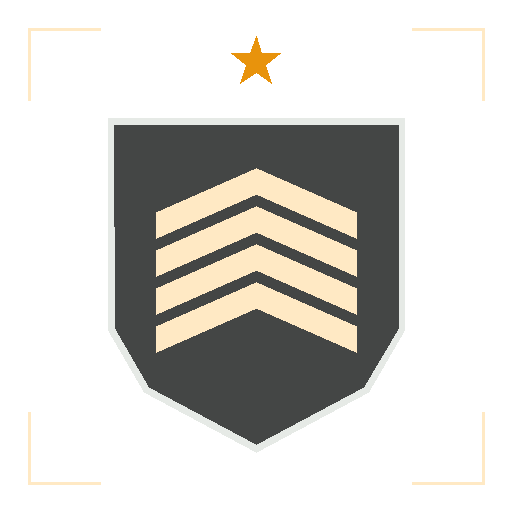
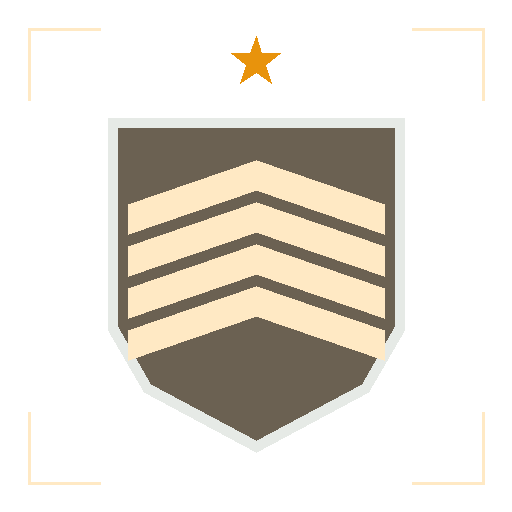
feat(launcher): medallas regeneradas con metal solido e interior tintado por tier + render 52px + nombre del tier en color del metal

Changed region(s): [[0.2188, 0.2188, 0.7812, 0.875]]

diff --git a/apps/launcher/assets/make_medals.py b/apps/launcher/assets/make_medals.py
@@ -20,10 +20,13 @@ Sistema de 8 tiers (ELO 1000-2500), estilo Dota 2 pero militar MW2:
 
 Estética HUD MW2 (ui/theme.py), igual que make_logo.py:
   - cero gradientes, cero glow, esquinas rectas, contraste AA
-  - metal del tier como color principal, contorno gris claro #E6EAE6,
-    interior oscuro #101312 semiopaco (alpha 200) para legibilidad
+  - metal del tier como color principal, contorno gris claro #E6EAE6
+  - interior = METAL OSCURECIDO del tier, OPACO (fix del dueño: el viejo
+    interior #101312 semiopaco era una mancha ilegible a ~50px; el nuevo
+    lleva el tint del metal y hace POP el emblema sobre fondo carbón)
   - brackets de esquina en tono del metal para unificar con el logo
-  - SIN texto dentro del emblema (el nombre lo pone la UI)
+  - SIN texto dentro del emblema (el nombre lo pone la UI, en el color
+    del metal del tier — ver ui/theme.py MEDAL_TIER_COLORS)
 """
 from __future__ import annotations
 
@@ -38,7 +41,27 @@ BG = "#101312"          # fondo de ventana / carbón del sheet
 TEXT = "#E6EAE6"        # texto principal (off-white) → contorno del escudo
 DIM = "#9BA69E"         # texto secundario → labels del sheet
 ACCENT = "#E8930C"      # ámbar militar → estrella del tier LEYENDA
-INTERIOR = (16, 19, 18, 200)  # #101312 semiopaco (alpha ~200)
+# Interior del escudo VIEJO (#101312 semiopaco): referencia del fix — el
+# nuevo interior es METAL OSCURECIDO opaco (ver interior_for()).
+OLD_INTERIOR = (16, 19, 18)
+INTERIOR_FLOOR = (33, 37, 35)  # suelo: ~35% más claro que el viejo #101312
+INTERIOR_METAL_MIX = 0.42      # metal al ~42% → interior tintado por tier
+
+
+def interior_for(metal_hex: str) -> tuple:
+    """Color del interior del escudo para un tier: METAL OSCURECIDO y OPACO.
+
+    Mezcla el metal del tier al ~42% y asegura un suelo ~35% más claro que
+    el viejo #101312 (que a ~50px de render era una mancha ilegible sobre
+    las tarjetas carbón). Opaco (alpha 255): sin transparencias que apaguen
+    el emblema. Los chevrones en METAL pleno contrastan sobre este fondo.
+    """
+    r, g, b = hex_rgba(metal_hex)[:3]
+    mixed = (int(r * INTERIOR_METAL_MIX), int(g * INTERIOR_METAL_MIX),
+             int(b * INTERIOR_METAL_MIX))
+    return (max(INTERIOR_FLOOR[0], mixed[0]),
+            max(INTERIOR_FLOOR[1], mixed[1]),
+            max(INTERIOR_FLOOR[2], mixed[2]), 255)
 
 FONT_CANDIDATES = [
     "consolab.ttf",                # Consolas bold (familia mono de la UI)
@@ -64,8 +87,10 @@ TIERS = [
 
 # Evolución por tier: nº de chevrons apilados y medio-ancho del chevron.
 CHEVRONS_BY_TIER = {1: 1, 2: 1, 3: 2, 4: 2, 5: 3, 6: 3, 7: 4, 8: 4}
-CHEVRON_HW = {1: 84, 2: 90, 3: 96, 4: 100}  # medio-ancho por nº de chevrons
-BAND = 26   # grosor vertical de la banda del chevron
+# Medio-ancho SUBIDO (fix del dueño: chevrones más anchos → más presencia
+# del metal a ~50px de render). Siguen dentro del escudo (x 128..384 ≤ 398).
+CHEVRON_HW = {1: 104, 2: 112, 3: 120, 4: 128}
+BAND = 30   # grosor vertical de la banda del chevron (subido de 26)
 RISE = 44   # altura del pico del chevron
 GAP = 12    # aire entre chevrons apilados
 
@@ -118,16 +143,19 @@ def draw_tracked_centered(draw: ImageDraw.ImageDraw, cx: int, y: int, s: str,
 # --- Geometría del emblema ----------------------------------------------------
 
 # Escudo militar de fondo plano: top recto, laterales que afinan y punta
-# inferior. Contorno gris claro (outer) + interior oscuro semiopaco (inner).
+# inferior. Contorno gris claro (outer) + interior metal oscurecido (inner).
+# Inner más separado del outer que antes: contorno blanco ~10px que sigue
+# visible tras el downsample a ~50px en la UI.
 SHIELD_OUTER = [
     (108, 118), (404, 118), (404, 330), (368, 392), (256, 452), (144, 392), (108, 330),
 ]
 SHIELD_INNER = [
-    (114, 125), (398, 125), (398, 328), (363, 387), (256, 444), (149, 387), (115, 328),
+    (118, 128), (394, 128), (394, 326), (361, 384), (256, 440), (151, 384), (118, 326),
 ]
 
-# Ancla vertical: la banda del chevron central SIEMPRE cubre el pixel central
-# (256, 256) → [244, 270], para que la verificación de color sea determinista.
+# Ancla vertical: la banda de ALGÚN chevron SIEMPRE cubre el pixel central
+# (256, 256) — con BAND=30: count 1 → [244,274], 2 → [246,276], 3 → [246,276],
+# 4 → [248,278] — para que la verificación de color sea determinista.
 CHEVRON_ANCHOR_Y = 244
 
 
@@ -165,10 +193,10 @@ def make_medal(num: int, slug: str, metal_hex: str) -> Path:
     metal = hex_rgba(metal_hex)
     outline = hex_rgba(TEXT)
 
-    # 1) Escudo: contorno gris claro + interior oscuro semiopaco (legibilidad
-    #    sobre cualquier fondo de tarjeta).
+    # 1) Escudo: contorno blanco ~10px + interior METAL OSCURECIDO opaco
+    #    (tintado por tier — el emblema hace POP sobre fondo carbón).
     d.polygon(SHIELD_OUTER, fill=outline)
-    d.polygon(SHIELD_INNER, fill=INTERIOR)
+    d.polygon(SHIELD_INNER, fill=interior_for(metal_hex))
 
     # 2) Chevrones del tier en el metal (color principal del emblema).
     n = CHEVRONS_BY_TIER[num]
@@ -280,11 +308,20 @@ def verify() -> None:
         center = rgba.getpixel((256, 256))
         want = expected[num]
         color_ok = center[:3] == want and center[3] == 255
-        ok = size_ok and corner_a == 0 and color_ok
+        # Interior metal oscurecido OPACO: muestra dentro del escudo y
+        # encima del chevron más alto de cualquier tier (256, 150).
+        interior_want = interior_for(metal_hex)
+        interior_px = rgba.getpixel((256, 150))
+        interior_ok = (interior_px[:3] == interior_want[:3]
+                       and interior_px[3] == 255)
+        ok = size_ok and corner_a == 0 and color_ok and interior_ok
         all_ok &= ok
         print(f"{p.name:<26}{f'{img.size[0]}x{img.size[1]} {img.mode}':<12}"
               f"{os.path.getsize(p):<9}{corner_a:<10}"
-              f"{str(center):<20}{str(want):<13}{'SI' if ok else 'NO'}")
+              f"{str(center):<20}{str(want):<13}"
+              f"{'SI' if ok else 'NO'} interior={interior_px}")
+        if not interior_ok:
+            print(f"    interior esperado {interior_want} — ¡NO cuadra!")
     sheet = OUT / "medals-sheet.png"
     simg = Image.open(sheet)
     print(f"{sheet.name:<26}{f'{simg.size[0]}x{simg.size[1]} {simg.mode}':<12}"

diff --git a/apps/launcher/ui/stats_panel.py b/apps/launcher/ui/stats_panel.py
@@ -24,7 +24,8 @@ from typing import Any, Dict, List, Optional, Tuple
 import customtkinter as ctk
 
 from ui.hud import bind_ghost_focus, hairline
-from ui.theme import COLORS, RADIUS, SP, asset_path, font
+from ui.theme import (COLORS, MEDAL_TIER_COLORS, RADIUS, SP, asset_path,
+                      font)
 
 log = logging.getLogger("ui.stats")
 
@@ -50,7 +51,7 @@ GRID_ORDER: Tuple[str, ...] = (
 GRID_TOP: Tuple[str, ...] = ("rank", "lvl", "kills", "deaths")
 GRID_BOTTOM: Tuple[str, ...] = ("hs", "kd", "medal")
 GRID_ROW_GAP = SP["m"]  # aire vertical entre filas en modo 2 filas
-MEDAL_IMG_H = 36  # alto OBJETIVO del medallón en px (subsample entero: sale ~37)
+MEDAL_IMG_H = 50  # alto OBJETIVO del medallón en px (subsample entero: sale ~51)
 
 
 def _fmt_int(value: Any) -> str:
@@ -235,9 +236,10 @@ class StatsPanel(ctk.CTkFrame):
             )
             self._blocks[key] = value
             self._captions[key] = cap
-        # 7ª clave MEDALLA: el valor es un MARCO (medallón PNG ~36px +
-        # nombre del tier en mono pequeño), no un label de texto — por eso
-        # _column_need la mide a mano y _reset_values la salta.
+        # 7ª clave MEDALLA: el valor es un MARCO (medallón PNG ~50px +
+        # nombre del tier en mono pequeño EN SU COLOR de metal), no un
+        # label de texto — por eso _column_need la mide a mano y
+        # _reset_values la salta.
         self._medal_name_font = font(10, mono=True)
         medal_value = ctk.CTkFrame(self._grid, fg_color="transparent")
         self._medal_img = ctk.CTkLabel(
@@ -411,12 +413,12 @@ class StatsPanel(ctk.CTkFrame):
 
     # ================== Medalla (bloque del grid + detalle) ==================
     def _get_medal_photo(self, asset_id: str) -> Optional[tk.PhotoImage]:
-        """PhotoImage del medallón a ~36px (PNG 512×512 subsampleado).
+        """PhotoImage del medallón a ~50px (PNG 512×512 subsampleado).
 
         Los assets son decorativos: si el archivo falta (exe viejo sin la
         carpeta medals, assetId desconocido) devuelve None y el bloque cae
         a '—' sin crash. Sin PIL en runtime: Tk 8.6 lee PNG nativo y
-        subsamplea por factor entero (factor 14 sobre 512 → ~37×37).
+        subsamplea por factor entero (factor 10 sobre 512 → ~51×51).
         """
         cached = self._medal_photos.get(asset_id)
         if cached is not None:
@@ -435,9 +437,11 @@ class StatsPanel(ctk.CTkFrame):
         return photo
 
     def _render_medal_block(self, medal: Optional[Dict[str, Any]]) -> None:
-        """Bloque del grid: imagen del medallón + nombre del tier al lado.
-        Sin nombre el label se retira (sin gap fantasma: lo que se renderiza
-        es exactamente lo que mide _column_need)."""
+        """Bloque del grid: imagen del medallón + nombre del tier al lado,
+        EN EL COLOR del metal del tier (MEDAL_TIER_COLORS, tokens de
+        make_medals.py) — la medalla se lee de un vistazo aunque sea
+        pequeña. Sin nombre el label se retira (sin gap fantasma: lo que
+        se renderiza es exactamente lo que mide _column_need)."""
         asset_id = str(medal.get("assetId") or "") if medal else ""
         name = str(medal.get("name") or "") if medal else ""
         photo = self._get_medal_photo(asset_id) if asset_id else None
@@ -447,7 +451,13 @@ class StatsPanel(ctk.CTkFrame):
         else:
             # image="" (no None): CTkLabel no baja la imagen interna con None.
             self._medal_img.configure(image="", text="—")
-        self._medal_name.configure(text=name)
+        # Nombre en el METAL del tier (defensivo: tier desconocido → dim).
+        try:
+            name_color = MEDAL_TIER_COLORS[int(medal.get("tierId"))] if medal \
+                else COLORS["text_dim"]
+        except (KeyError, TypeError, ValueError):
+            name_color = COLORS["text_dim"]
+        self._medal_name.configure(text=name, text_color=name_color)
         if name:
             self._medal_name.pack(side="left", padx=(SP["s"], 0))
         else:
@@ -539,7 +549,7 @@ class StatsPanel(ctk.CTkFrame):
         caption_text = str(self._captions[key].cget("text"))
         cap_w = self._caption_font.measure(caption_text)
         if key == "medal":
-            # Valor = medallón (~36px) + aire + nombre del tier en mono
+            # Valor = medallón (~50px) + aire + nombre del tier en mono
             # pequeño. La métrica de fuente queda corta (CTkLabel añade
             # padding interno escalado: 40px medidos → 64px render), así que
             # se usa el ancho PEDIDO del marco (winfo_reqwidth, exacto y

diff --git a/apps/launcher/tests/test_smoke.py b/apps/launcher/tests/test_smoke.py
@@ -91,7 +91,7 @@ import save_sync as ss  # noqa: E402
 from save_sync import decide_sync  # noqa: E402
 from ui.main_window import App  # noqa: E402
 from ui.stats_panel import GRID_ORDER, MEDAL_IMG_H  # noqa: E402
-from ui.theme import COLORS  # noqa: E402
+from ui.theme import COLORS, MEDAL_TIER_COLORS  # noqa: E402
 from user_store import UserStore  # noqa: E402
 
 # ---------------------------------------------------------------------------
@@ -748,10 +748,11 @@ def synthetic_medal_checks(panel) -> None:
     """Inyección sintética del bloque MEDALLA sobre el panel REAL (no depende
     del entorno ni de que el backend ya sirva el campo). El perfil llega con
     medal sintético y un assetId VÁLIDO (los PNG reales de assets/medals,
-    ruta resuelta por asset_path) → medallón cargado como PhotoImage ~36px
-    sin crash; tier 8 → 'LEYENDA #N · TOP 12' en ámbar; medal null/ausente
-    y assetId inválido → '—' (convención), todo sin crash. Los mismos checks
-    para la fase completa y la reducida."""
+    ruta resuelta por asset_path) → medallón cargado como PhotoImage ~50px
+    sin crash y nombre del tier EN SU METAL (MEDAL_TIER_COLORS); tier 8 →
+    'LEYENDA #N · TOP 12' en ámbar; medal null/ausente y assetId inválido →
+    '—' (convención), todo sin crash. Los mismos checks para la fase
+    completa y la reducida."""
     check("bloque MEDALLA en el grid: 7ª clave con caption 'MEDALLA' mapeada",
           "medal" in GRID_ORDER
           and str(panel._captions["medal"].cget("text")) == "MEDALLA"
@@ -772,10 +773,14 @@ def synthetic_medal_checks(panel) -> None:
     ancho = (panel._medal_photo.width()
              if panel._medal_photo is not None else 0)
     check("medal sintético (SARGENTO, assetId válido) → medallón cargado "
-          "(PhotoImage ~36px) + nombre al lado, sin crash",
+          "(PhotoImage ~50px) + nombre al lado, sin crash",
           img_set and MEDAL_IMG_H <= ancho <= MEDAL_IMG_H + 2
           and nombre == "SARGENTO",
           f"img={'sí' if img_set else 'no'} ancho={ancho} nombre={nombre!r}")
+    check("nombre del tier EN EL COLOR del metal (SARGENTO → ámbar #E8930C)",
+          panel._medal_name.cget("text_color") == MEDAL_TIER_COLORS[4],
+          f"color={panel._medal_name.cget('text_color')!r} "
+          f"esperado={MEDAL_TIER_COLORS[4]!r}")
     estrellas_ok = (
         str(panel._stars_full.cget("text")) == "★★★"
         and str(panel._stars_empty.cget("text")) == "☆☆ · TOP 12"

diff --git a/apps/launcher/ui/theme.py b/apps/launcher/ui/theme.py
@@ -51,6 +51,21 @@ COLORS = {
     "play_hover": "#F5A430",
 }
 
+# --- Metales por tier de medalla ELO ----------------------------------------
+# Valores EXACTOS de assets/make_medals.py · TIERS (única fuente del dibujo).
+# La UI pinta el nombre del tier en SU metal para que la medalla se lea de
+# un vistazo. Clave = tierId 1-8 del contrato player["medal"].
+MEDAL_TIER_COLORS = {
+    1: "#3B443E",  # RECLUTA    (gris acero dim — el tier base es intencionalmente apagado)
+    2: "#B0722F",  # SOLDADO    (bronce)
+    3: "#A9B2AC",  # CABO       (plata)
+    4: "#E8930C",  # SARGENTO   (ámbar militar = accent)
+    5: "#F5A430",  # TENIENTE   (ámbar claro = accent_hover)
+    6: "#8FD429",  # CAPITÁN    (verde señal = ok)
+    7: "#D2544A",  # COMANDANTE (rojo apagado = danger)
+    8: "#FFE9C4",  # LEYENDA    (blanco cálido)
+}
+
 # --- Rejilla de espaciado (múltiplos de 4) ---------------------------------
 SP = {"xs": 4, "s": 8, "m": 12, "l": 16, "xl": 24, "xxl": 32}
 
